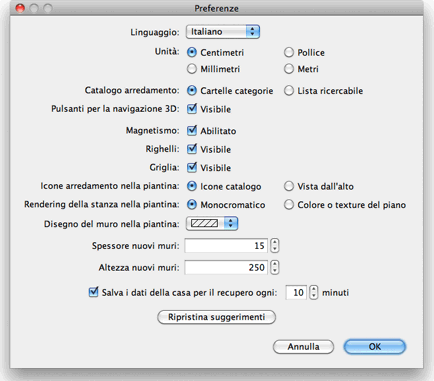
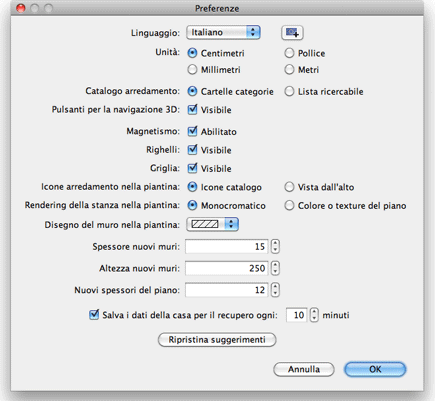
Updated preferences dialog
git-svn-id: https://svn.code.sf.net/p/sweethome3d/code/trunk@3267 03e323e1-6c6c-46a5-9f71-c4ce5d8c6204

diff --git a/SweetHome3D/src/com/eteks/sweethome3d/viewcontroller/resources/help/cs/editingPreferences.html b/SweetHome3D/src/com/eteks/sweethome3d/viewcontroller/resources/help/cs/editingPreferences.html
@@ -26,7 +26,7 @@
 <table width="100%" border="0" cellspacing="0" cellpadding="3">
 	<tr>
 	<td><p>Nastavení programu Sweet Home 3D změníte v <i>Sweet Home 3D &gt; Nastavení...</i> v prostředí Mac OS X nebo v <i>Projekt &gt; Nastavení...</i> v jiných systémech.</p>
-	    <p align="center"><img src="images/editingPreferences.png" width="434" height="381"></p>
+	    <p align="center"><img src="images/editingPreferences.png" width="429" height="401"></p>
 	  <p>V okně nastavení můžete měnit <i>jazyk</i> prostředí programu Sweet Home 3D, <i>měrnou jednotku</i> užívanou v pravítku plánu, mřížce a všech dalších rozměrech.    <br>
 						
 	    Políčko <i>přichytávání</i> povoluje či zakazuje užívání přichytávání v plánu projektu při <a href="drawingWalls.html">kreslení zdí</a>

diff --git a/SweetHome3D/src/com/eteks/sweethome3d/viewcontroller/resources/help/es/editingPreferences.html b/SweetHome3D/src/com/eteks/sweethome3d/viewcontroller/resources/help/es/editingPreferences.html
@@ -27,7 +27,7 @@
       <td><p>Para editar las preferencias de Sweet Home 3D, elige <i>Sweet Home 3D 
           &gt; Preferencias...</i> en Mac OS X o <i>Archivo &gt; Preferencias...</i> 
           en otros sistemas.</p>
-        <p align="center"><img src="images/editingPreferences.png" width="447" height="379"></p>
+        <p align="center"><img src="images/editingPreferences.png" width="450" height="404"></p>
         <p>En el panel preferencias, puedes elegir el <i>Idioma</i> usado en la 
           interfaz de usuario de Sweet Home 3D y las <i>Unidades</i> usadas para 
           dibujar las reglas y rejillas del plano, y mostrar las longitudes.</p>

diff --git a/SweetHome3D/src/com/eteks/sweethome3d/viewcontroller/resources/help/it/editingPreferences.html b/SweetHome3D/src/com/eteks/sweethome3d/viewcontroller/resources/help/it/editingPreferences.html
@@ -33,7 +33,7 @@
 				&gt; Preferenze...</I> sotto Mac OS X oppure <I>File &gt;
 				Preferenze...</I> sotto altri sistemi operativi.</P>
 				
-        <P ALIGN=CENTER><IMG SRC="images/editingPreferences.png" ALIGN=BOTTOM WIDTH=434 HEIGHT=381 BORDER=0></P>
+        <P ALIGN=CENTER><IMG SRC="images/editingPreferences.png" ALIGN=BOTTOM WIDTH=435 HEIGHT=401 BORDER=0></P>
 				<P>Nel pannello preferenze, puoi scegliere il <I>Linguaggio</I>
 				usato per l'interfaccia utente di Sweet Home 3D e l'<I>Unità di
 				misura</I> usata per disegnare i righelli e la griglia della
